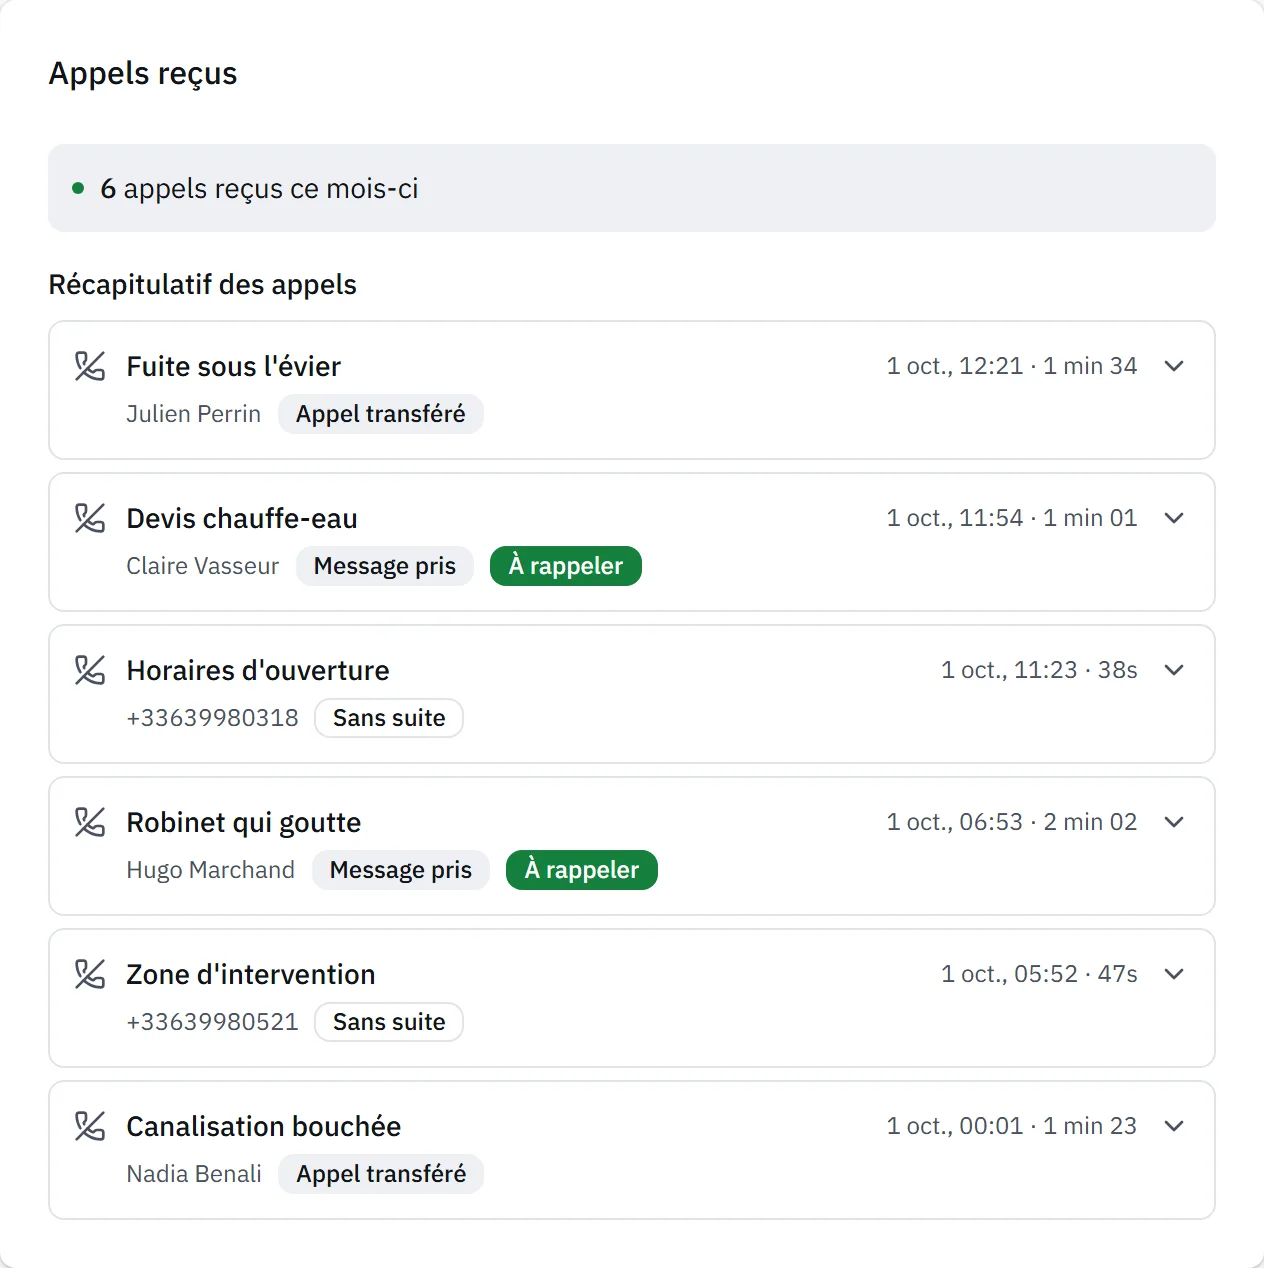
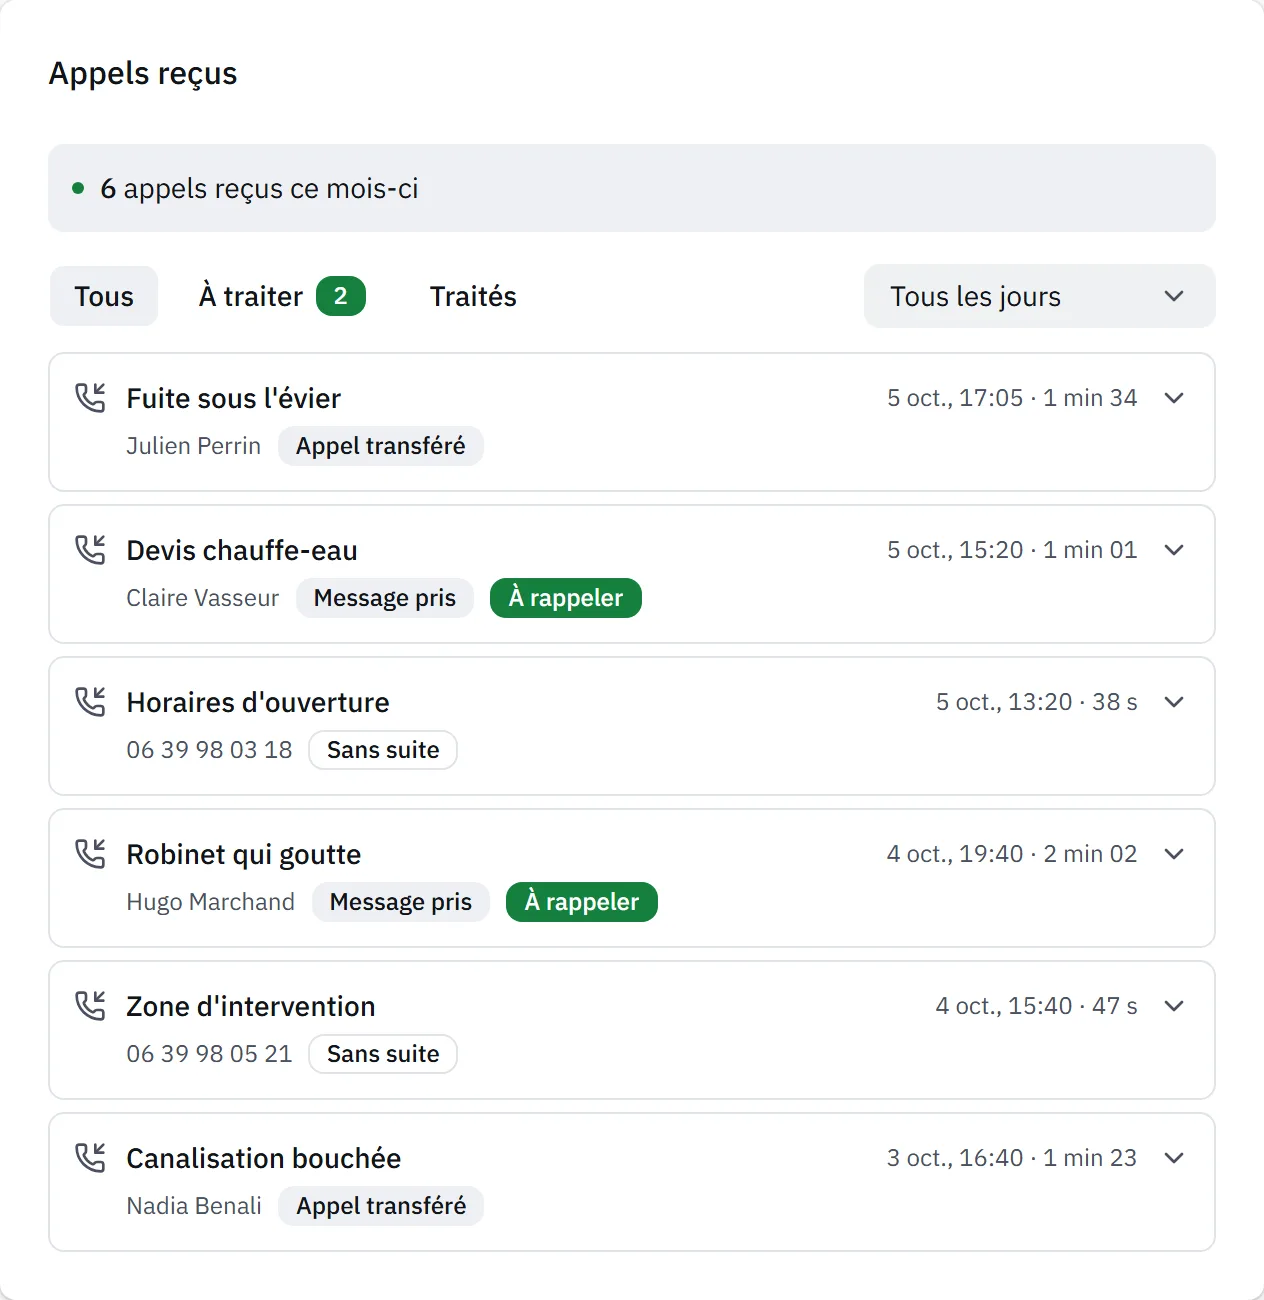
Accueil : capture des conversations écrites à côté des appels (#157)
Le produit montré sur l'accueil restait téléphonique (appels, calendrier,
réglages). Le script de captures crée désormais, pour le compte de
démonstration, une solution WhatsApp active et trois conversations
(numéros fictifs ARCEP, une reprise en main), puis capture la carte
« Conversations ». L'accueil l'affiche sous les appels.

La capture des appels est régénérée : elle montre l'interface corrigée par
#152 (icône d'appel reçu, numéros formatés, « 38 s »). L'en-tête collant
est rendu statique pendant les captures pour ne plus recouvrir les cartes.
Textes dans messages/fr.json.

Claude-Session: https://claude.ai/code/session_01RMwQPBKjaPtRdP9FZtb6Rf

diff --git a/scripts/capture-screenshots.ts b/scripts/capture-screenshots.ts
@@ -160,6 +160,90 @@ const DEMO_SETTINGS = {
   ],
 };
 
+// Conversations WhatsApp de démonstration : numéros des plages réservées à la
+// fiction (06 39 98), réponses de l'assistant et une reprise en main.
+const DEMO_CONVERSATIONS = [
+  {
+    contactId: "+33639980611",
+    minutesAgo: 25,
+    takeover: false,
+    messages: [
+      { direction: "INBOUND", text: "Bonjour, vous intervenez le samedi ?" },
+      { direction: "OUTBOUND", text: "Bonjour ! Oui, Plomberie Lefèvre intervient le samedi de 9 h à 12 h. Souhaitez-vous un rendez-vous ?" },
+      { direction: "INBOUND", text: "Oui, pour un robinet qui fuit." },
+      { direction: "OUTBOUND", text: "C'est noté. Pouvez-vous me donner votre adresse ? Marc vous confirme le créneau dans la journée." },
+    ],
+  },
+  {
+    contactId: "+33639980724",
+    minutesAgo: 95,
+    takeover: true,
+    messages: [
+      { direction: "INBOUND", text: "Combien coûte le remplacement d'un chauffe-eau de 200 litres ?" },
+      { direction: "OUTBOUND", text: "Le prix dépend du modèle et de l'installation. Je transmets votre demande pour un devis." },
+      { direction: "OUTBOUND", text: "Bonjour, c'est Marc. Je peux passer jeudi à 14 h pour le devis, cela vous convient ?", fromOwner: true },
+    ],
+  },
+  {
+    contactId: "+33639980857",
+    minutesAgo: 60 * 20,
+    takeover: false,
+    messages: [
+      { direction: "INBOUND", text: "Vous intervenez à Villeurbanne ?" },
+      { direction: "OUTBOUND", text: "Oui, Plomberie Lefèvre intervient à Lyon et dans les communes voisines, dont Villeurbanne." },
+    ],
+  },
+] as const;
+
+async function seedDemoConversations(db: PrismaClient): Promise<string> {
+  const user = await db.user.findUniqueOrThrow({ where: { email: DEMO_EMAIL } });
+  const telephony = await db.clientService.findFirstOrThrow({
+    where: { userId: user.id, service: { slug: "standard-telephonique-ia" } },
+  });
+  const service = await db.service.findUniqueOrThrow({ where: { slug: "assistant-whatsapp" } });
+  const name = "Réponses automatiques sur WhatsApp";
+  const clientService = await db.clientService.upsert({
+    where: { organizationId_serviceId_name: { organizationId: telephony.organizationId, serviceId: service.id, name } },
+    update: { status: "ACTIVE", whatsappPhoneNumberId: `${DEMO_PREFIX}whatsapp`, whatsappDisplayNumber: "+33199001234" },
+    create: {
+      userId: user.id,
+      organizationId: telephony.organizationId,
+      serviceId: service.id,
+      name,
+      status: "ACTIVE",
+      activatedAt: new Date(),
+      whatsappPhoneNumberId: `${DEMO_PREFIX}whatsapp`,
+      whatsappDisplayNumber: "+33199001234",
+    },
+  });
+  await db.conversation.deleteMany({ where: { clientServiceId: clientService.id } });
+  const now = Date.now();
+  for (const conversation of DEMO_CONVERSATIONS) {
+    const end = now - conversation.minutesAgo * 60_000;
+    const step = 4 * 60_000;
+    const start = end - (conversation.messages.length - 1) * step;
+    await db.conversation.create({
+      data: {
+        clientServiceId: clientService.id,
+        channel: "WHATSAPP",
+        contactId: conversation.contactId,
+        lastMessageAt: new Date(end),
+        lastInboundAt: new Date(start),
+        humanTakeoverAt: conversation.takeover ? new Date(end) : null,
+        messages: {
+          create: conversation.messages.map((message, index) => ({
+            direction: message.direction,
+            text: message.text,
+            sentById: "fromOwner" in message && message.fromOwner ? user.id : null,
+            createdAt: new Date(start + index * step),
+          })),
+        },
+      },
+    });
+  }
+  return clientService.id;
+}
+
 // Rendez-vous de la semaine en cours, du lundi au vendredi (jour, heure, durée).
 const DEMO_BOOKINGS = [
   { day: 0, hour: 9, minutes: 60, name: "Claire Vasseur", notes: "Devis chauffe-eau 200 litres." },
@@ -223,7 +307,10 @@ async function capture(
     await page.goto(`${BASE_URL}${path}`);
     await page.waitForLoadState("networkidle");
     // Masque l'indicateur de développement de Next (« N », « Compiling »).
-    await page.addStyleTag({ content: "nextjs-portal { display: none !important; }" });
+    // L'en-tête collant recouvrirait le haut d'une carte capturée seule.
+    await page.addStyleTag({
+      content: "nextjs-portal { display: none !important; } header { position: static !important; }",
+    });
     await page.waitForTimeout(800);
     if (target.prepare) {
       await target.prepare(page);
@@ -247,6 +334,7 @@ async function main() {
   const db = new PrismaClient({ adapter: new PrismaPg({ connectionString: process.env.DATABASE_URL! }) });
   const clientServiceId = await seedDemoCalls(db);
   await seedDemoBookings(db);
+  const whatsappServiceId = await seedDemoConversations(db);
   await db.$disconnect();
 
   await mkdir(OUT_DIR, { recursive: true });
@@ -265,6 +353,9 @@ async function main() {
     viewport: { width: 1024, height: 800 },
     clip: { x: 256, y: 64, width: 768, height: 576 },
     prepare: (page) => page.getByRole("button", { name: "Semaine" }).click(),
+  });
+  await capture(page, `/dashboard/services/${whatsappServiceId}`, "dashboard-conversations", {
+    cardHeading: "Conversations",
   });
   await capture(page, `/dashboard/services/${clientServiceId}/configuration`, "dashboard-settings", {
     clip: { x: 256, y: 64, width: 1024, height: 640 },

diff --git a/src/app/[locale]/home-sections/method-section.tsx b/src/app/[locale]/home-sections/method-section.tsx
@@ -24,6 +24,13 @@ const COLUMNS = [
   },
 ] as const;
 
+// Colonne de gauche : les échanges avec les clients, au téléphone et par
+// message ; à droite, le calendrier et les réglages.
+const LEFT_SHOTS = [
+  { key: "calls", name: "dashboard-calls", width: 632, height: 650, alt: "callsAlt", url: "automerio.com/dashboard/services" },
+  { key: "conversations", name: "dashboard-conversations", width: 632, height: 762, alt: "conversationsAlt", url: "automerio.com/dashboard/services" },
+] as const;
+
 const SHOTS = [
   { key: "calendar", name: "dashboard-calendar", width: 768, height: 576, alt: "calendarAlt", url: "automerio.com/dashboard/calendar" },
   { key: "settings", name: "dashboard-settings", width: 1024, height: 640, alt: "settingsAlt", url: "automerio.com/dashboard/services" },
@@ -86,8 +93,8 @@ export async function MethodSection() {
           })}
         </div>
 
-        {/* Le suivi (étape 04) : les appels sur toute la hauteur à gauche, le
-            calendrier et les réglages l'un sous l'autre à droite. */}
+        {/* Le suivi (étape 04) : appels et conversations à gauche, calendrier
+            et réglages à droite. */}
         <div className="mt-20 sm:mt-28">
           <div className="max-w-2xl">
             <h3 className="text-2xl font-semibold tracking-tight text-balance text-foreground sm:text-3xl">
@@ -96,24 +103,28 @@ export async function MethodSection() {
             <p className="mt-3 text-lg leading-relaxed text-muted-foreground">{t("dashboard.lead")}</p>
           </div>
           <div className="mt-10 grid gap-10 lg:grid-cols-2 lg:gap-8">
-            <div className="min-w-0">
-              <h4 className="text-lg font-semibold tracking-tight text-foreground">
-                {t("dashboard.items.calls.title")}
-              </h4>
-              <p className="mt-1.5 mb-5 leading-relaxed text-muted-foreground">
-                {t("dashboard.items.calls.description")}
-              </p>
-              <ProductScreenshot
-                name="dashboard-calls"
-                width={976}
-                height={646}
-                alt={tShots("callsAlt")}
-                caption={tShots("demoCaption")}
-                sizes="(min-width: 1152px) 548px, 100vw"
-                windowUrl="automerio.com/dashboard/services"
-              />
-            </div>
-            <ul className="grid min-w-0 gap-10 lg:gap-8">
+            <ul className="grid min-w-0 content-start gap-10 lg:gap-8">
+              {LEFT_SHOTS.map((shot) => (
+                <li key={shot.key} className="min-w-0">
+                  <h4 className="text-lg font-semibold tracking-tight text-foreground">
+                    {t(`dashboard.items.${shot.key}.title`)}
+                  </h4>
+                  <p className="mt-1.5 mb-5 leading-relaxed text-muted-foreground">
+                    {t(`dashboard.items.${shot.key}.description`)}
+                  </p>
+                  <ProductScreenshot
+                    name={shot.name}
+                    width={shot.width}
+                    height={shot.height}
+                    alt={tShots(shot.alt)}
+                    caption={tShots("demoCaption")}
+                    sizes="(min-width: 1152px) 548px, 100vw"
+                    windowUrl={shot.url}
+                  />
+                </li>
+              ))}
+            </ul>
+            <ul className="grid min-w-0 content-start gap-10 lg:gap-8">
               {SHOTS.map((shot) => (
                 <li key={shot.key} className="min-w-0">
                   <h4 className="text-lg font-semibold tracking-tight text-foreground">
